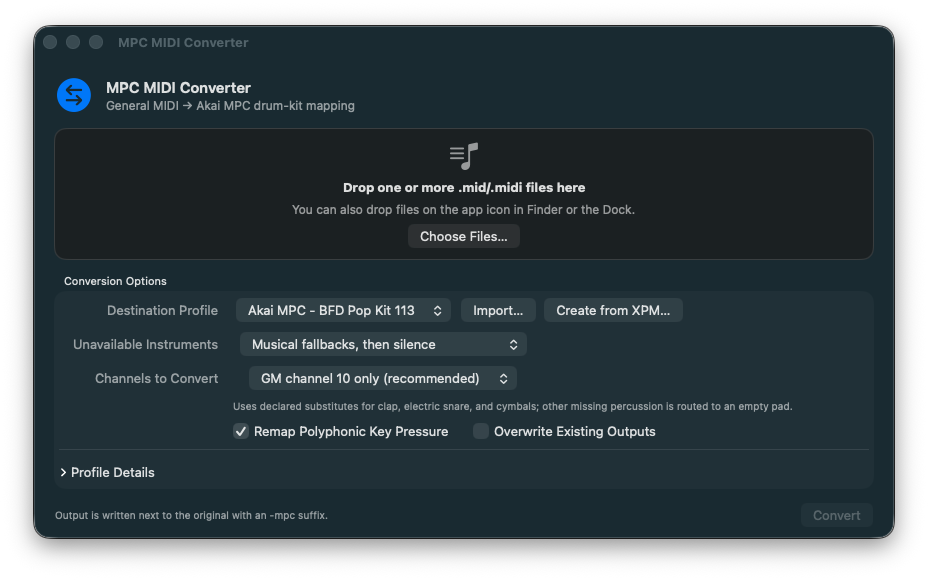
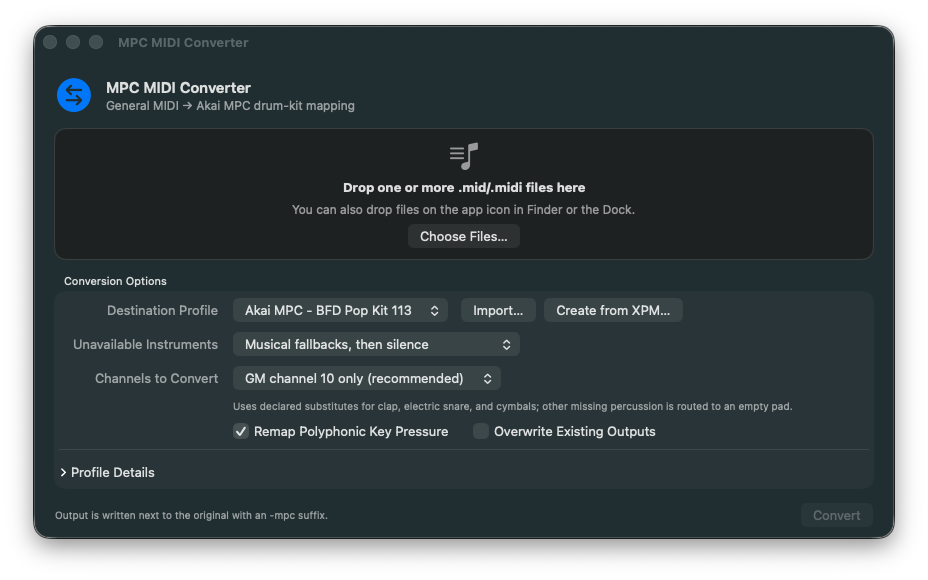
fix: handle padded MIDI files and align options

Changed region(s): [[0.25, 0.5897, 0.5312, 0.6828], [0.25, 0.5276, 0.4688, 0.5586], [0.5312, 0.5897, 0.5625, 0.6207]]

diff --git a/Tests/MPCMidiConverterCoreTests/StandardMIDIRewriterTests.swift b/Tests/MPCMidiConverterCoreTests/StandardMIDIRewriterTests.swift
@@ -133,6 +133,36 @@ struct StandardMIDIRewriterTests {
         #expect([UInt8](result.data).containsSubsequence(Array("XFIH".utf8) + [0, 0, 0, 5, 1, 2, 3, 4, 5]))
     }
 
+    @Test("Preserves safe trailing whitespace and rejects unknown trailing bytes")
+    func trailingPadding() throws {
+        let base = midiFile(tracks: [trackChunk([
+            0x00, 0x99, 38, 100,
+            0x00, 0xFF, 0x2F, 0x00
+        ])])
+        var padded = base
+        let padding = Data([0x0A, 0x0A, 0x0D, 0x20, 0x09])
+        padded.append(padding)
+
+        let result = try StandardMIDIRewriter.rewrite(
+            padded,
+            configuration: fallbackConfiguration
+        )
+
+        #expect(result.data.count == padded.count)
+        #expect(result.data.suffix(padding.count) == padding)
+        #expect(result.report.parsedTrackCount == 1)
+        #expect(noteKeys(in: result.data) == [37])
+
+        var invalidTail = base
+        invalidTail.append(contentsOf: [0x0A, 0x01])
+        #expect(throws: MIDIConversionError.self) {
+            try StandardMIDIRewriter.rewrite(
+                invalidTail,
+                configuration: fallbackConfiguration
+            )
+        }
+    }
+
     @Test("Rejects running status after a meta event")
     func runningStatusInterruptedByMetaEvent() {
         let input = midiFile(tracks: [trackChunk([

diff --git a/Sources/MPCMidiConverterApp/ContentView.swift b/Sources/MPCMidiConverterApp/ContentView.swift
@@ -150,7 +150,7 @@ struct ContentView: View {
                             }
                         }
                         .labelsHidden()
-                        .frame(width: 220)
+                        .frame(width: 220, alignment: .leading)
                         Button("Import…") { model.importProfile() }
                             .help("Import a JSON mapping profile for another kit")
                         Button {
@@ -175,7 +175,7 @@ struct ContentView: View {
                         }
                     }
                     .labelsHidden()
-                    .frame(width: 300)
+                    .frame(width: 300, alignment: .leading)
                 }
 
                 settingRow("Channels to Convert") {
@@ -185,7 +185,7 @@ struct ContentView: View {
                         }
                     }
                     .labelsHidden()
-                    .frame(width: 300)
+                    .frame(width: 300, alignment: .leading)
                 }
 
                 Text(model.unavailablePolicy.explanation)

diff --git a/Sources/MPCMidiConverterCore/StandardMIDIRewriter.swift b/Sources/MPCMidiConverterCore/StandardMIDIRewriter.swift
@@ -34,6 +34,12 @@ public enum StandardMIDIRewriter {
         var cursor = headerEnd
 
         while cursor < bytes.count {
+            if parsedTrackCount == Int(declaredTrackCount),
+               bytes[cursor...].allSatisfy(isSafeTrailingPadding)
+            {
+                cursor = bytes.count
+                break
+            }
             guard cursor + 8 <= bytes.count else {
                 throw MIDIConversionError.truncatedChunkHeader(offset: cursor)
             }
@@ -212,5 +218,14 @@ public enum StandardMIDIRewriter {
             | (UInt32(bytes[offset + 1]) << 16)
             | (UInt32(bytes[offset + 2]) << 8)
             | UInt32(bytes[offset + 3])
+    }
+
+    private static func isSafeTrailingPadding(_ byte: UInt8) -> Bool {
+        switch byte {
+        case 0x09, 0x0A, 0x0D, 0x20:
+            true
+        default:
+            false
+        }
     }
 }

diff --git a/docs/research.md b/docs/research.md
@@ -16,6 +16,9 @@ Research last checked: 2026-08-08.
 The converter does not decode and reserialize a song. After validating event
 boundaries, it replaces only the key byte in place. This preserves file size,
 chunk lengths, timing, running status, and every unrelated byte.
+After every track declared by the MIDI header has been parsed, trailing ASCII
+tabs, spaces, and line endings are tolerated and preserved byte for byte. Any
+other incomplete or unknown trailing data still fails closed.
 
 ## macOS integration
 
